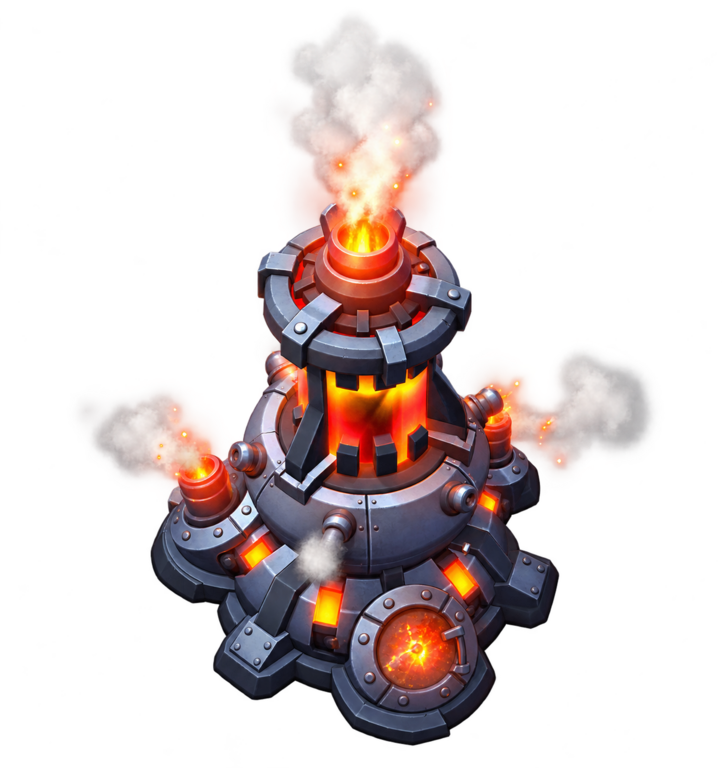
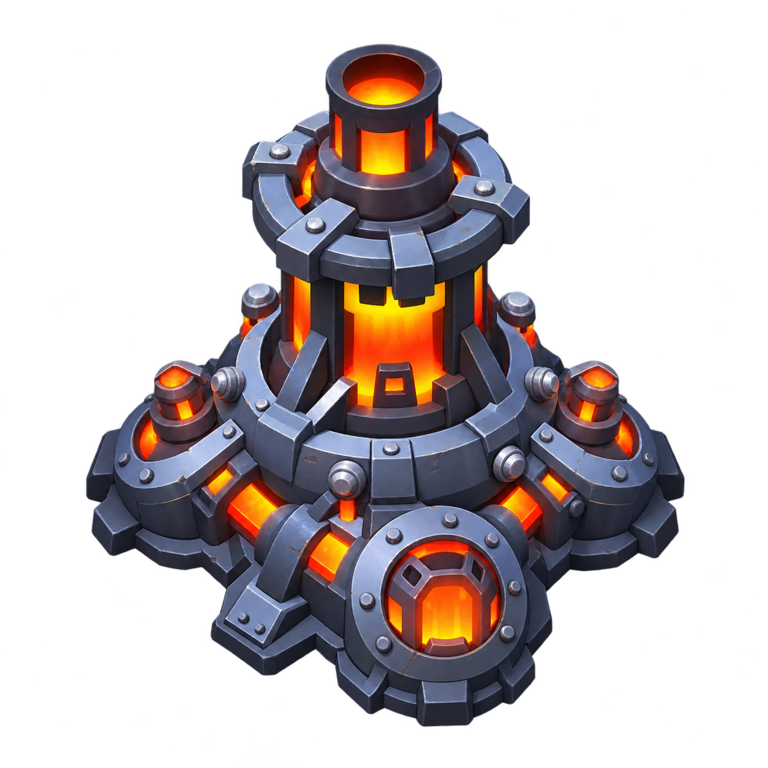
Replace and normalize FC3 and FC10 furnace skins

diff --git a/src/app.js b/src/app.js
@@ -66,7 +66,7 @@ const furnaceVisualAssets={
 function furnaceVisual(level){
   const asset=furnaceVisualAssets[level.id];
   return asset
-    ? `<img src="assets/visuals/furnaces/${asset}?v=20261009-furnace-assets-fc1-fc6-normalized-v1" alt="Chaudière ${level.id}" draggable="false">`
+    ? `<img src="assets/visuals/furnaces/${asset}?v=20261009-furnace-assets-fc1-fc10-normalized-v1" alt="Chaudière ${level.id}" draggable="false">`
     : '<span class="furnace-placeholder" aria-hidden="true"><span class="furnace-placeholder-stack"></span><span class="furnace-placeholder-door">🔥</span></span>';
 }
 function furnaceLevelParts(level){
